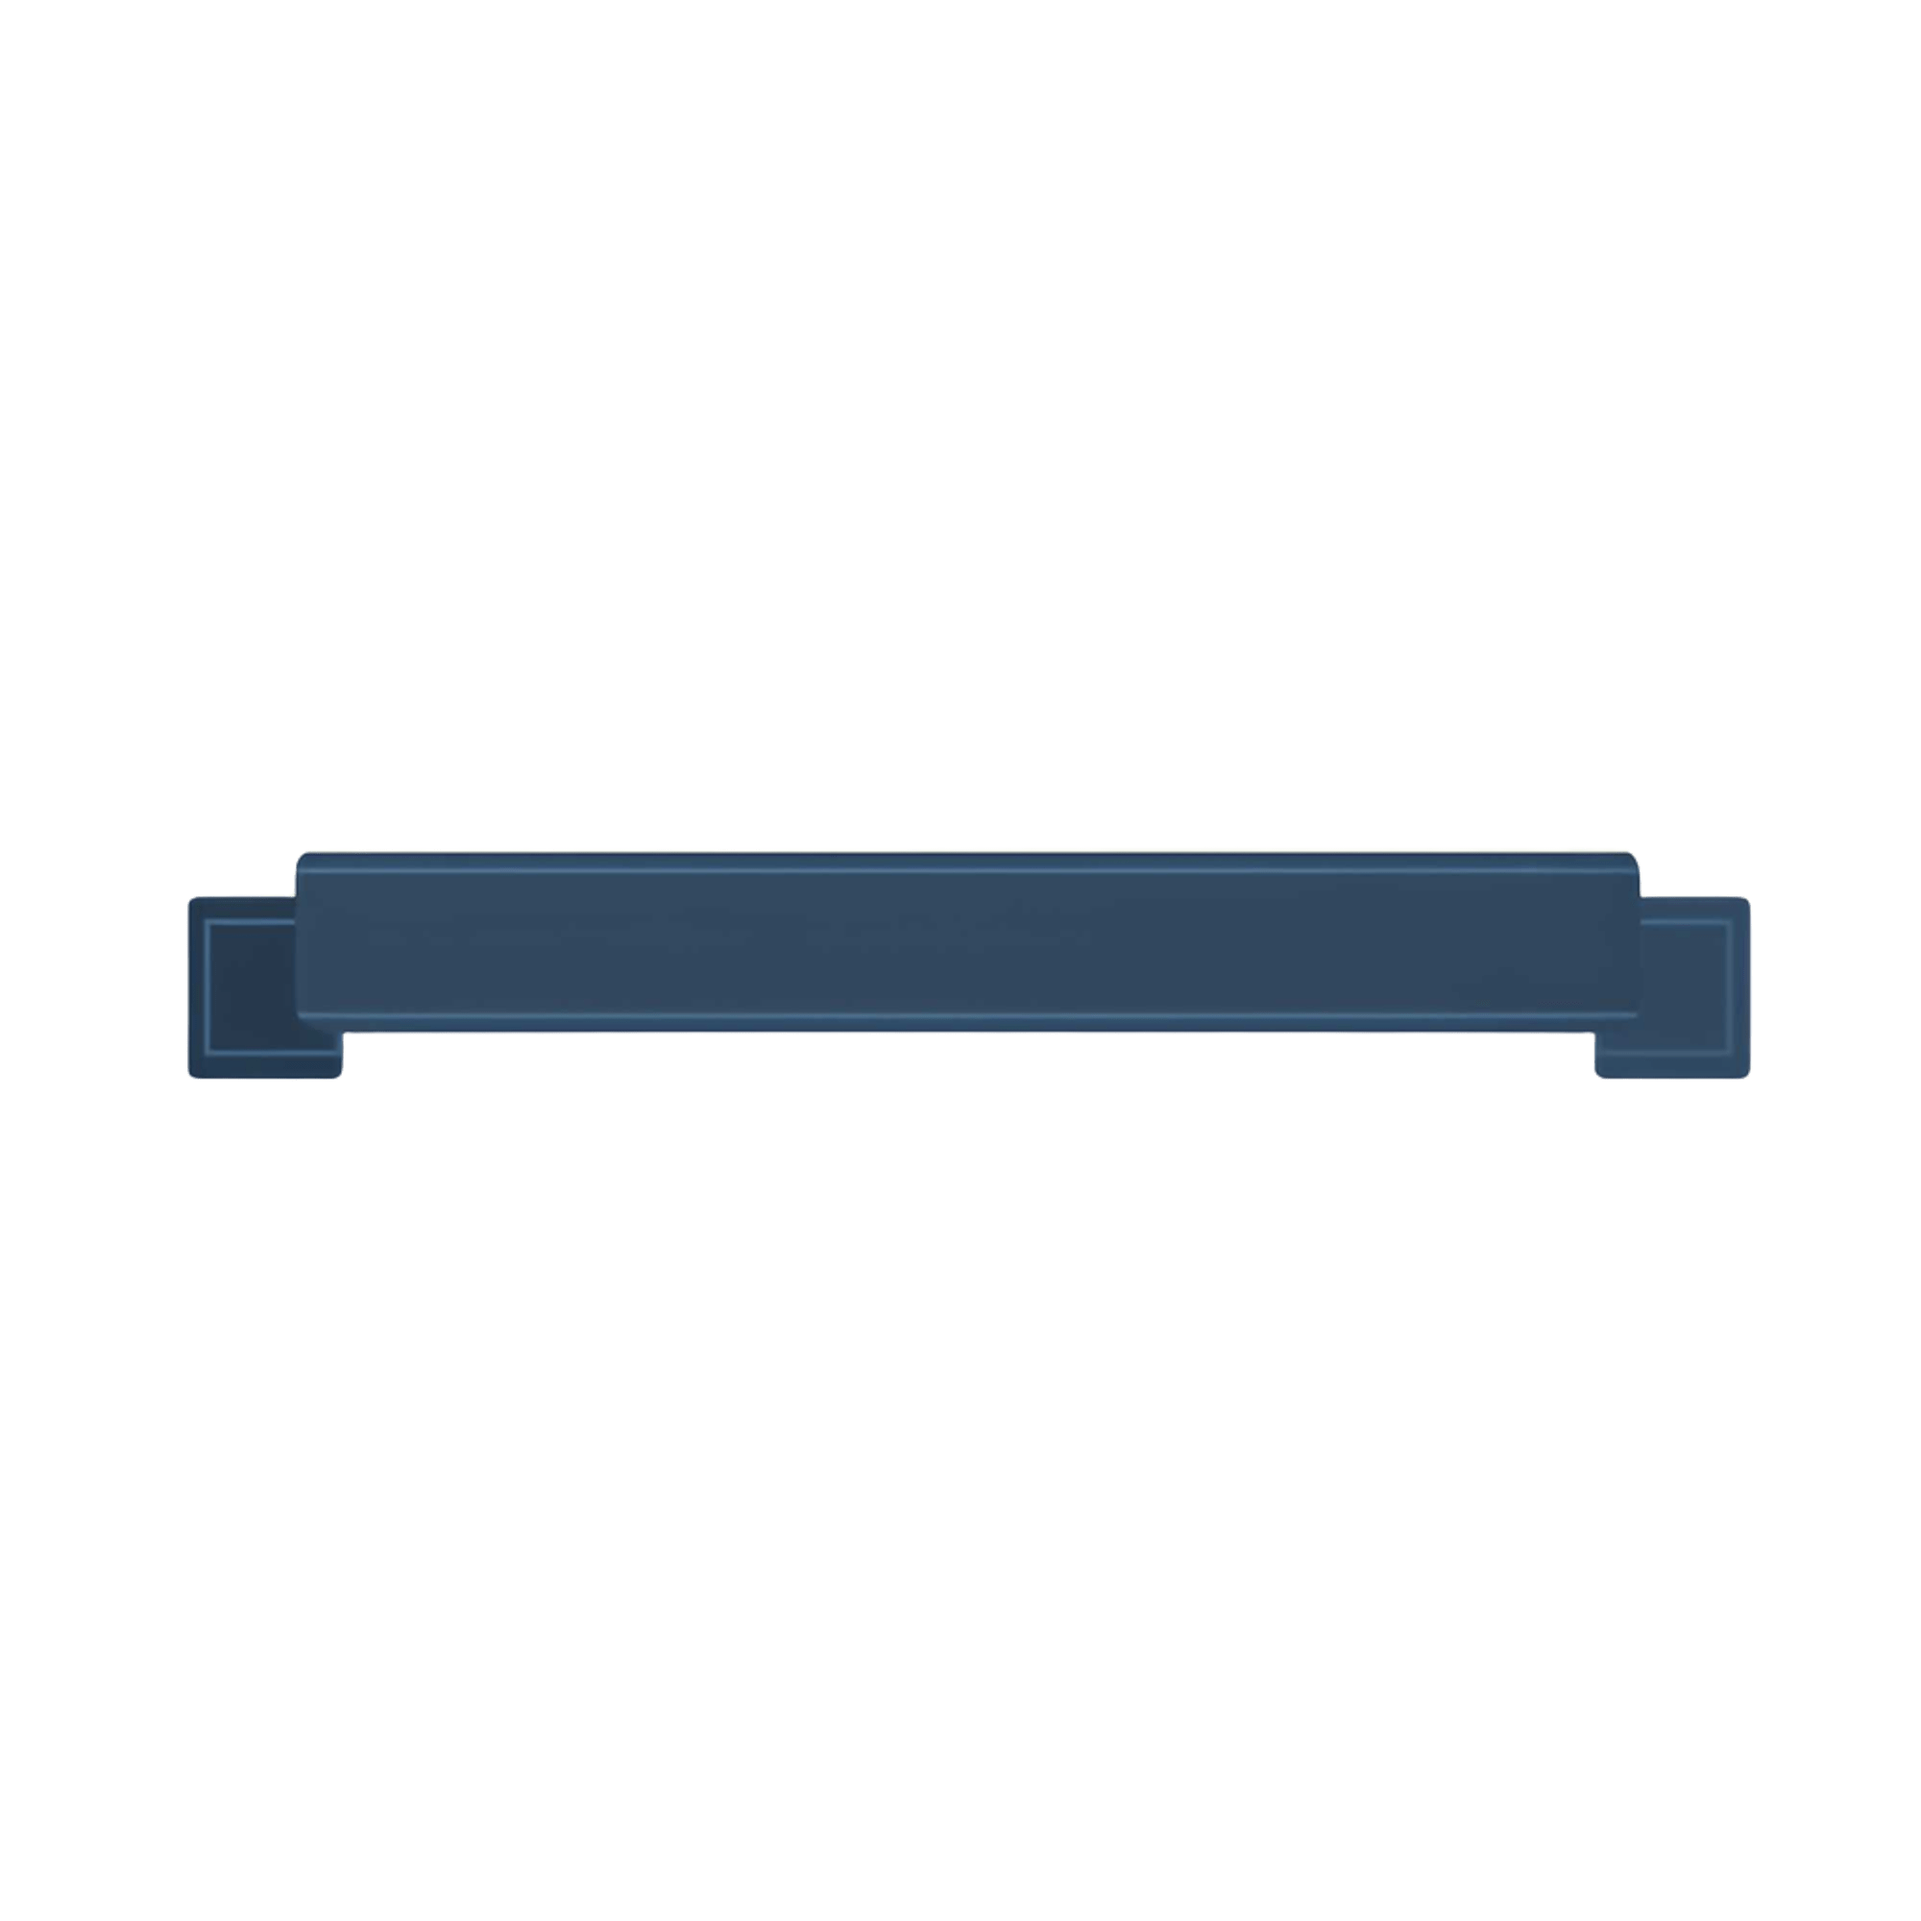
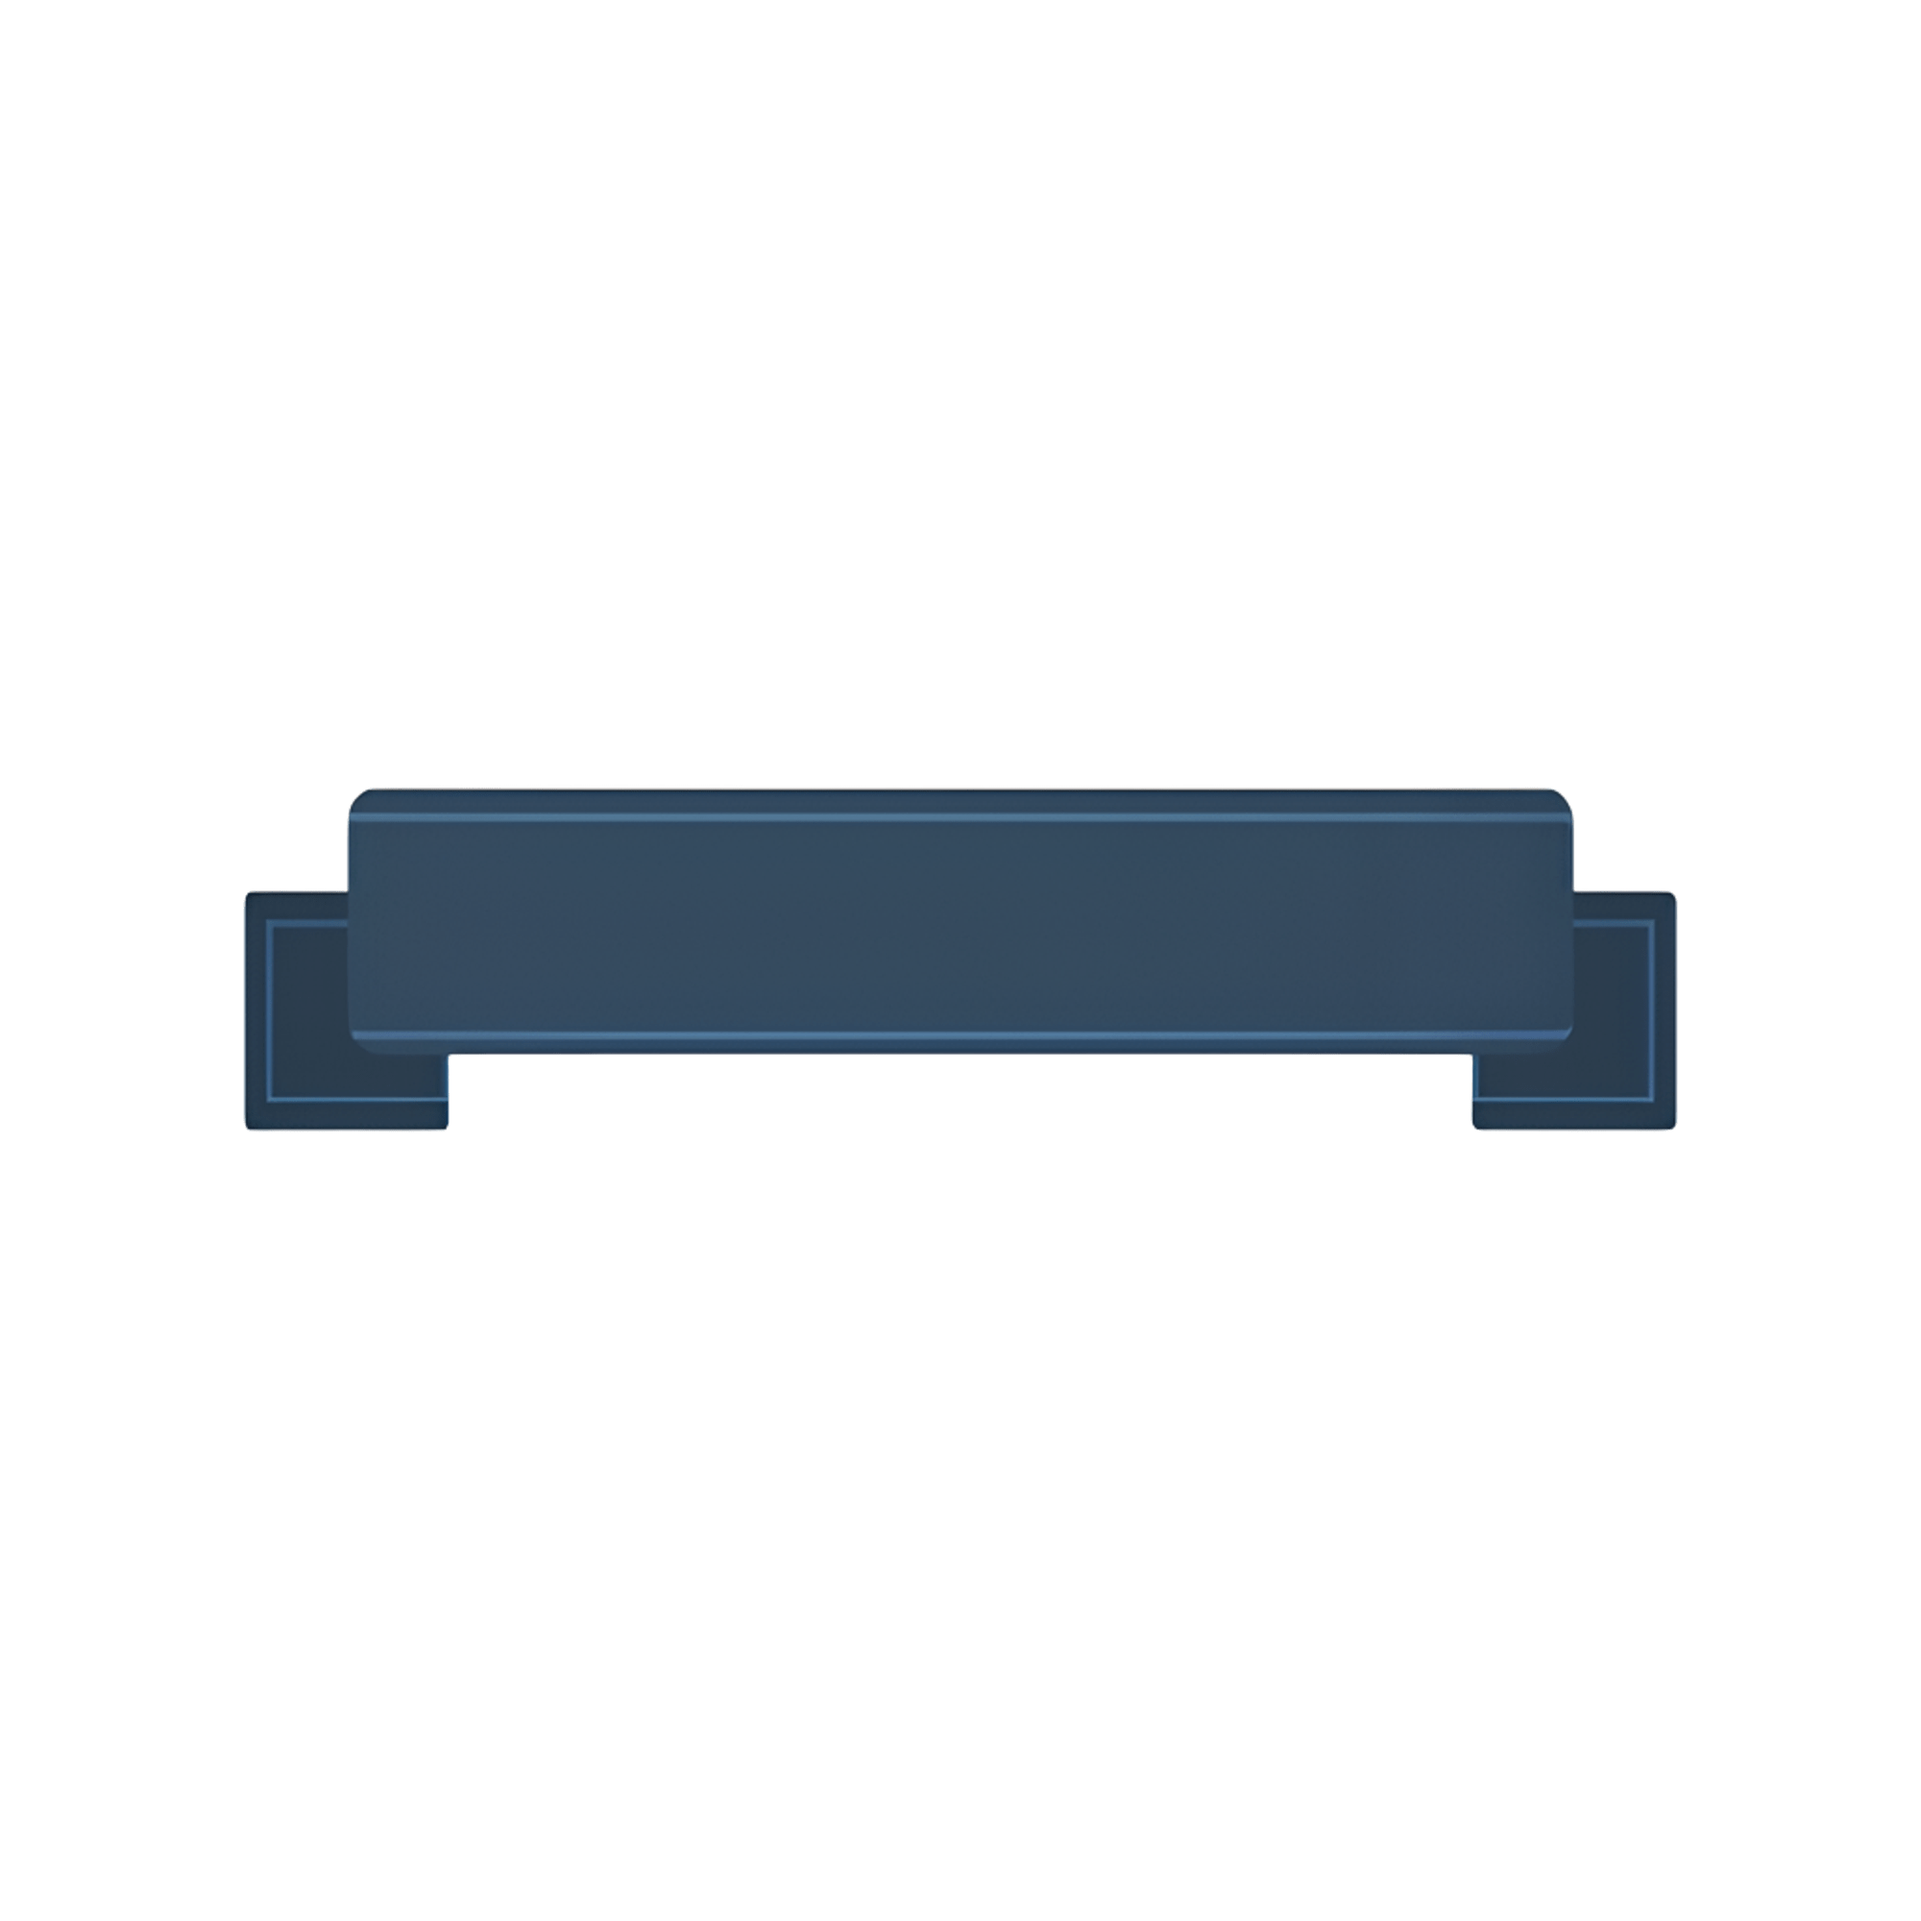
4° Termino do About e Fan art

Changed region(s): [[0.093, 0.403, 0.93, 0.589]]

diff --git a/index.html b/index.html
@@ -1,11 +1,13 @@
 <!DOCTYPE html>
 <html lang="en">
+
 <head>
   <meta charset="UTF-8" />
-  <meta name="viewport" content="width=device-width, initial-scale=1.0"/>
+  <meta name="viewport" content="width=device-width, initial-scale=1.0" />
   <title>Arclands</title>
   <link rel="stylesheet" href="assets/style/home.css" />
 </head>
+
 <body>
   <div class="container">
     <div class="border">
@@ -42,53 +44,103 @@
 
         <section class="about-section">
           <h2>About Arclands</h2>
-        <div class="about-cards">
-    <div class="about-card">
-      <div class="image-container">
-        <img src="assets/images/aboutvillage.png" alt="Village">
-        <div class="image-banner">
-          <h3>Build Your RPG Village</h3>
-        </div>
-      </div>
-      <ul>
-        <li>Design and build your dream RPG village</li>
-        <li>Ensure a thriving economy and keep your citizens happy</li>
-        <li>Attract more citizens and grow your village to a mighty city</li>
-      </ul>
-    </div>
+          <div class="about-cards">
+            <div class="about-card">
+              <div class="image-container">
+                <img src="assets/images/aboutvillage.png" alt="Village" />
+                <div class="image-banner-container">
+                  <img src="assets/images/bannerbuild.png" alt="Banner Azul" class="banner-image" />
+                </div>
+              </div>
 
-    <div class="about-card">
-      <div class="image-container">
-        <img src="assets/images/aboutdefend.png" alt="Defend">
-        <div class="image-banner">
-          <h3>Defend Against Evil</h3>
-        </div>
-      </div>
-      <ul>
-        <li>Learn mighty spells and blast enemies away</li>
-        <li>Defend your settlement with many different traps and towers</li>
-        <li>Recruit a diverse set of Soldiers with unique strengths and weaknesses</li>
-      </ul>
-    </div>
 
-    <div class="about-card">
-      <div class="image-container">
-        <img src="assets/images/aboutexplore.png" alt="Explore">
-        <div class="image-banner">
-          <h3>Explore the Arclands</h3>
-        </div>
-      </div>
-      <ul>
-        <li>Uncover rare resources and artefacts and bring them back home</li>
-        <li>Find inhabitants that want to join your village and recruit them</li>
-        <li>Explore three biomes with different treasure, enemies and secrets</li>
-      </ul>
-    </div>
-  </div>
+              <ul>
+                <li>Design and build your dream RPG village</li>
+                <li>Ensure a thriving economy and keep your citizens happy</li>
+                <li>Attract more citizens and grow your village to a mighty city</li>
+              </ul>
+            </div>
+
+            <div class="about-card">
+              <div class="image-container">
+                <img src="assets/images/aboutvillage.png" alt="Village" />
+                <div class="image-banner-container">
+                  <img src="assets/images/bannerdefend.png" alt="Banner Azul" class="banner-image" />
+                </div>
+              </div>
+
+              <ul>
+                <li>Learn mighty spells and blast enemies away</li>
+                <li>Defend your settlement with many different traps and towers</li>
+                <li>Recruit a diverse set of Soldiers with unique strengths and weaknesses</li>
+              </ul>
+            </div>
+
+            <div class="about-card">
+              <div class="image-container">
+                <img src="assets/images/aboutvillage.png" alt="Village" />
+                <div class="image-banner-container">
+                  <img src="assets/images/bannerexplore.png" alt="Banner Azul" class="banner-image" />
+                </div>
+              </div>
+              <ul>
+                <li>Uncover rare resources and artefacts and bring them back home</li>
+                <li>Find inhabitants that want to join your village and recruit them</li>
+                <li>Explore three biomes with different treasure, enemies and secrets</li>
+              </ul>
+            </div>
+          </div>
         </section>
+
+        <section class="fanart-flex">
+          <div class="fanart-img">
+          <img src="assets/images/fanart.png" alt="Fan Art" />
+          </div>
+          <div class="description-art">
+            <h2>Arclands Fan Art Contest</h2>
+            <p>The Arclands Fan Art Contest is now over! Thank you so much for your submissions.
+              I have uploaded all your works here, go check them out!</p>
+
+            <button class="custom-button-fanart">
+              <span class="pincel-box">
+                <img src="assets/images/pincel.png" alt="Pincel" />
+              </span>
+              <span class="button-text-fanart">Learn more</span>
+            </button>
+          </div>
+        </section>
+
+        <section class = "subscribe">
+          <h2>Want to stay up to date?</h2>
+          <div class="description-subscribe">
+            <p>Consider subscribing to the Arclands newsletter! You will be the first one to get updated on development, 
+              the release date and all around important news. You can also join the Discord community or follow on any of the 
+              channels linked below! You can reach me via E-Mail at <a href= "mailto:jon@arclands.de"> jon@arclands.de.</p>
+
+                <!-- FALTA COLOCAR OS ICONES DAS REDES SOCIAIS -->
+          </div>
+
+          <div class = "formulario">
+            <div class="name">
+              <input placeholder="Name" type = "text" name = "NAME" >
+            </div>
+
+            <div class="email">
+              <input placeholder="E-mail" type = "email" name = "EMAIL" >
+            </div>
+          </div>
+
+          <div class = "checkbox">
+            <input type = "checkbox">
+            <p>I've read and understood the <a href= "mailto:jon@arclands.de"> data protection guidelines.</p>
+          </div>
+        </section>
+
+
       </main>
 
     </div>
   </div>
 </body>
+
 </html>

diff --git a/assets/style/home.css b/assets/style/home.css
@@ -238,10 +238,10 @@ iframe {
 .about-card {
   background-color: #fffaf4;
   border: 2px solid #f2e7e1;
-  border-radius: 12px;
+  border-radius: 15px;
   overflow: hidden;
   flex: 1;
-  box-shadow: 0 0 10px rgba(0, 0, 0, 0.08);
+
   text-align: center;
   transition: transform 0.3s ease;
 }
@@ -249,6 +249,30 @@ iframe {
 .about-card:hover {
   transform: scale(1.02);
 }
+
+.about-card ul {
+    padding: 0px;
+    text-align: center;
+    margin: 0px;
+    margin-top: 20px;
+
+}
+
+.about-card ul li {
+  color: #555151;
+  font-size: 1rem;
+  font-weight: 400;
+  text-align: center;
+  padding: 15px 35px;
+  border-bottom: 2px solid #f2e7e1;
+  margin-bottom: 0;
+}
+
+.about-card ul li:last-of-type {
+  border-bottom: none;
+
+}
+
 
 /* imagem e banner azul */
 .image-container {
@@ -259,6 +283,111 @@ iframe {
   width: 100%;
   display: block;
   object-fit: cover;
-  border-bottom: 2px solid #f2e7e1;
+
+}
+
+.image-banner-container {
+  position: relative;
+  bottom: 200px;
+  left: 50%;
+  transform: translateX(-50%);
+  z-index: 5;
+  margin-bottom: -380px;
+}
+
+.banner-image {
+  width: 100%;
+  max-width: 2280px;
+  display: block;
+}
+
+/* Seção Fan Art */
+
+.fanart-flex {
+  display: flex;
+  gap: 200px;
+  align-items: flex-start;
+  margin-top: 80px;
+}
+
+.fanart-flex .fanart-img img {
+  position: relative;
+  width: 580px;
+  height: 370px;
+  border-radius: 8px;
+  border: none;
+  left: 50px;
+}
+
+.description-art {
+  position: relative;
+  max-width: 570px;
+  right: 50px;
+  margin-top: 30px;
+}
+
+.description-art h2 {
+  font-weight: 900;
+  font-size: 1.9rem;
+  margin-bottom: 30px;
+  color: #476A8C;
+}
+
+.description-art p {
+  font-weight: 500;
+  font-size: 1rem;
+  line-height: 1.5;
+  color: #645F5F;
+  margin-bottom: 40px;
+}
+
+
+/* BOTÃO FAN ART - versão correta com metade clara e metade escura */
+.custom-button-fanart {
+  display: flex;
+  align-items: center;
+  border: none;
+  cursor: pointer;
+  border-radius: 10px;
+  overflow: hidden;
+  font-family: 'Varela', sans-serif;
+  padding: 0;
+  background: none;
+  font-weight: 400;
+  user-select: none;
+  font-size: 0.9rem;
+  border-bottom: 4px solid #30475E;
+}
+
+.pincel-box {
+  background-color: #5a84ac;
+  padding: 23.5px 20px;
+  display: flex;
+  align-items: center;
+  justify-content: center;
+}
+
+.pincel-box img {
+  width: 20px;
+  height: 20px;
+  display: block;
+}
+
+.button-text-fanart {
+  background-color: #476A8C;
+  color: #FFFBF4;
+  padding: 25px 35px;
+  display: flex;
+  align-items: center;
+}
+
+.custom-button-fanart:hover .pincel-box {
+  background-color: #476A8C;
+  transition: all ease .2s;
+}
+
+.custom-button-fanart:hover .button-text-fanart {
+  background-color: #5a84ac;
+  transition: all ease .2s;
 }
 
